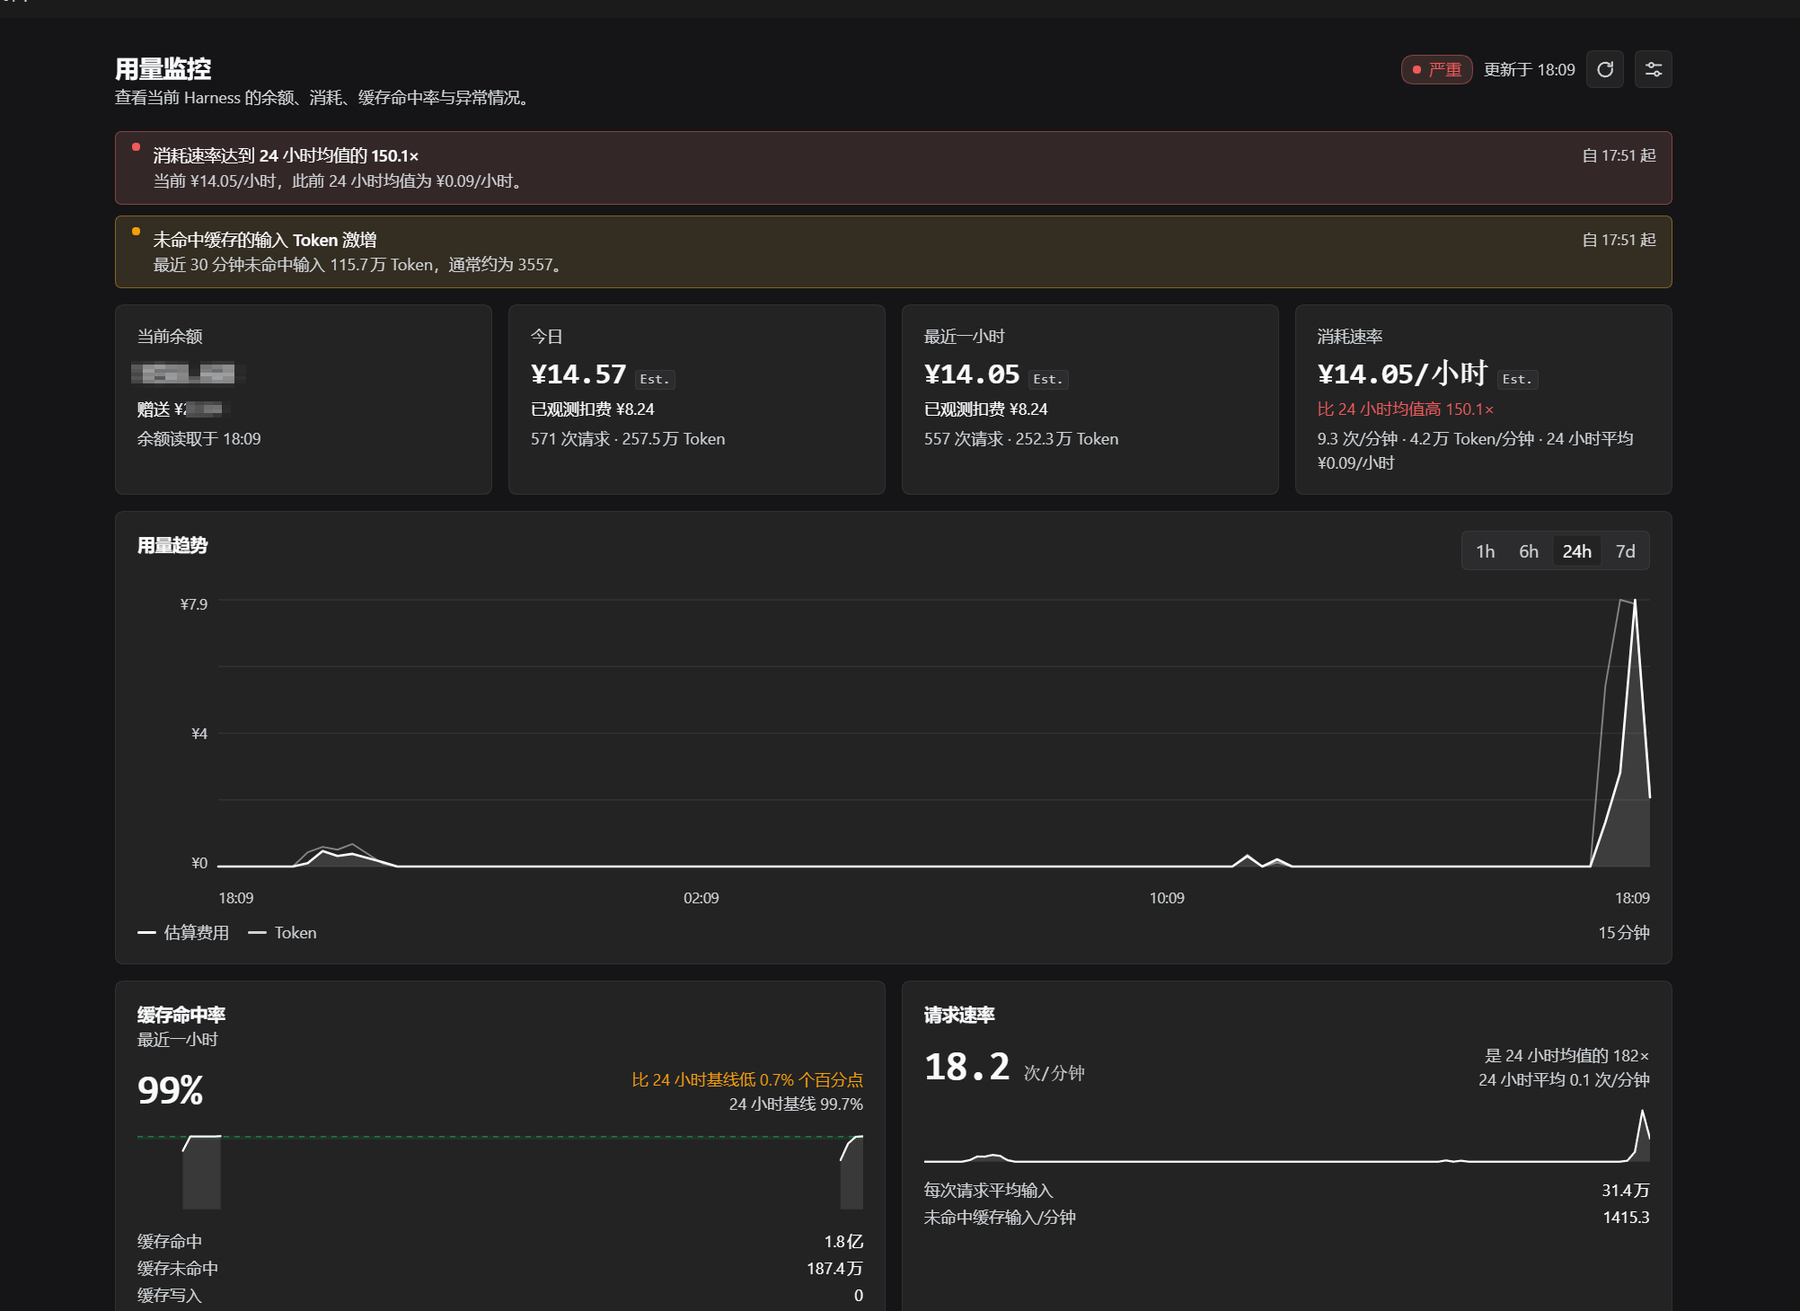
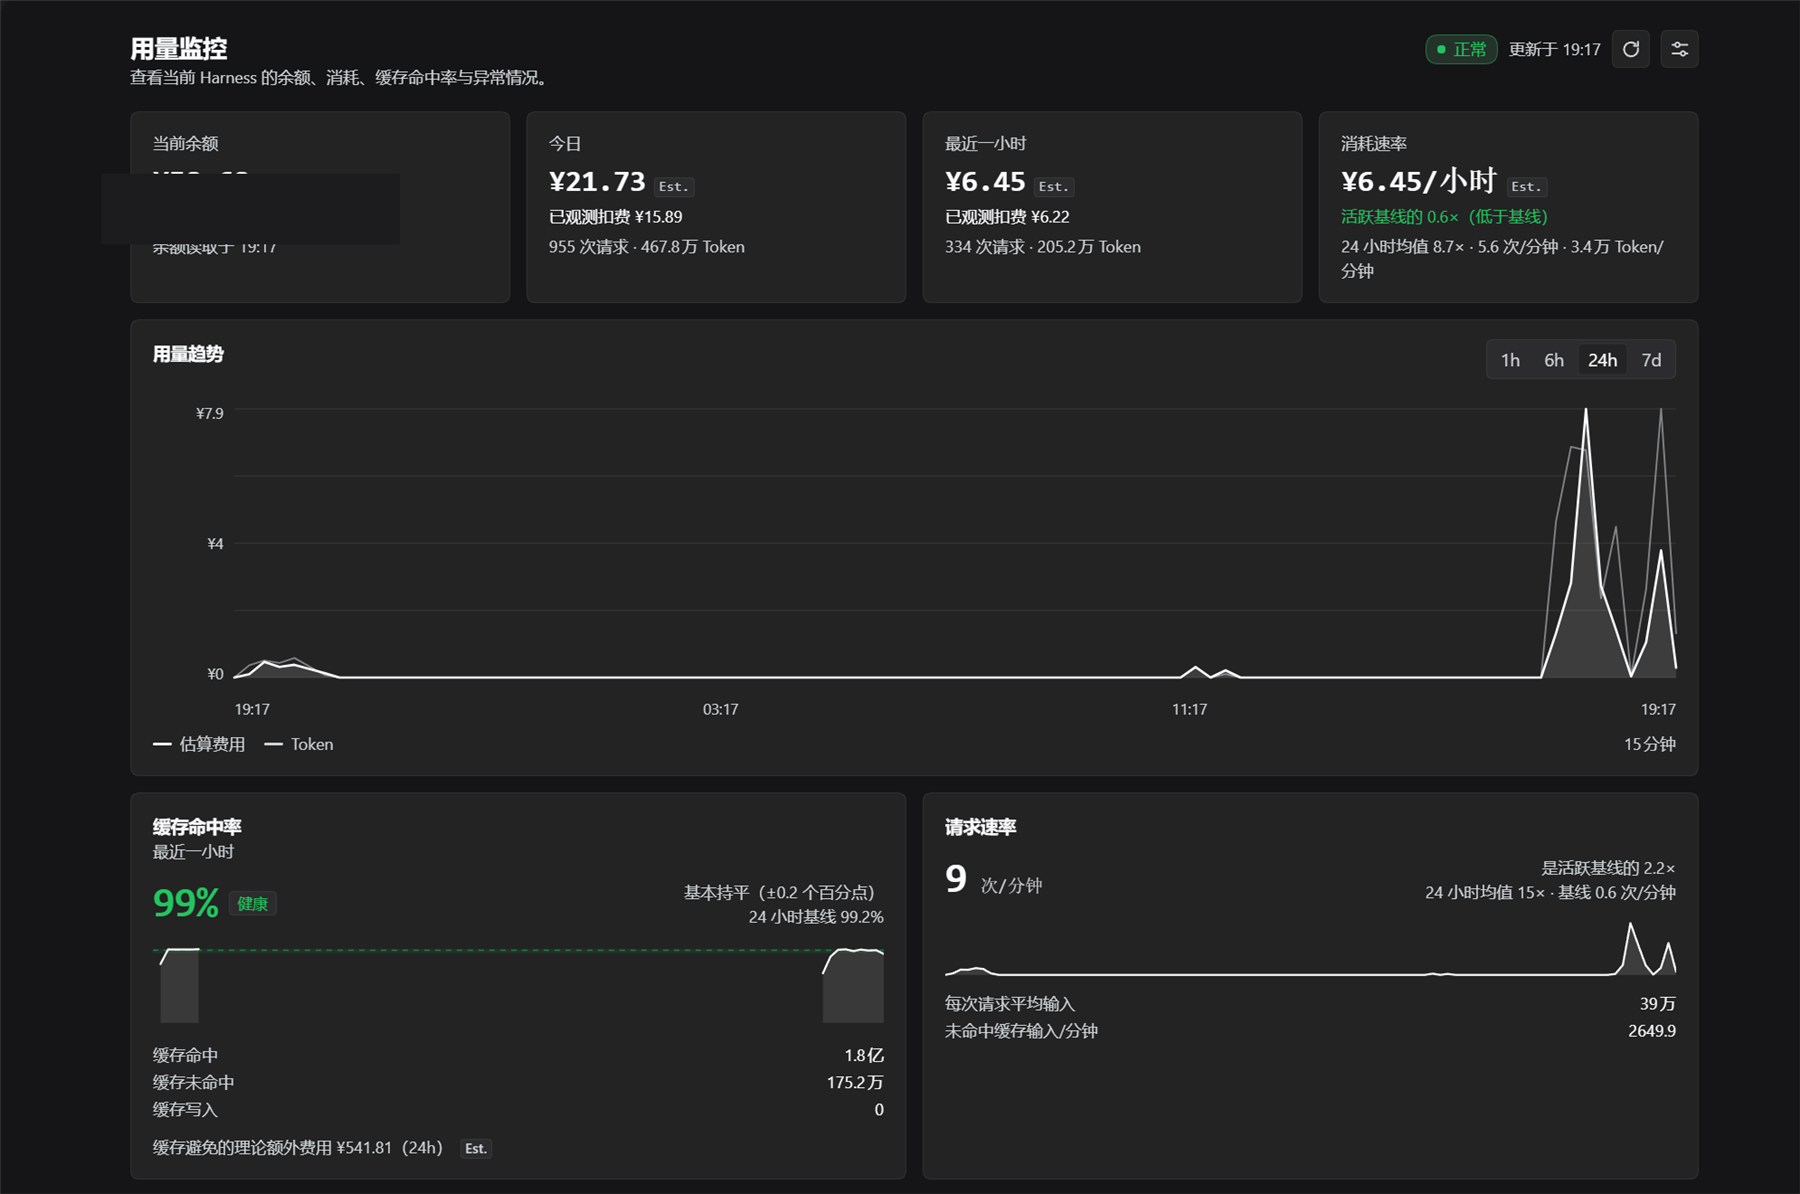
docs: refresh v0.1.1 screenshots with redacted wallet values

diff --git a/README.md b/README.md
@@ -19,12 +19,12 @@ English | [简体中文](README.zh.md)
 
 ![Usage Monitor dashboard — dark theme, Simplified Chinese UI](docs/screenshots/dashboard.png)
 
-![Cache and request cards plus the anomaly timeline from the same dashboard](docs/screenshots/cache-anomaly.png)
+![Why is usage high? Workload evidence vs efficiency evidence, and the evidence-only anomaly timeline](docs/screenshots/why-usage-high.png)
 
 Both images are real captures from a local DeepSeek Harness run with the plugin installed (dark
 theme, Chinese UI; the UI is fully localized in English and Chinese). Wallet amounts are redacted;
-no mock or demo data is shown. The second image stacks two regions of the same dashboard:
-cache/request cards and the anomaly timeline.
+no mock or demo data is shown. The second image stacks two regions of the same dashboard: the
+workload-vs-efficiency assessment and the evidence-only anomaly timeline plus forecast.
 
 ---
 
@@ -446,7 +446,7 @@ reload. Delete `$DSH_HOME/usage-monitor/` to reset state while testing.
 
 **Screenshots:** only real captures from a local Harness run are committed — never mockups. Run
 the plugin, open the dashboard, capture the window, redact wallet amounts/session titles/paths, and
-save as `docs/screenshots/dashboard.png` and `docs/screenshots/cache-anomaly.png`.
+save as `docs/screenshots/dashboard.png` and `docs/screenshots/why-usage-high.png`.
 
 More detail: [`docs/ARCHITECTURE.md`](docs/ARCHITECTURE.md),
 [`docs/DATA-SOURCES.md`](docs/DATA-SOURCES.md), [`docs/API.md`](docs/API.md),

diff --git a/README.zh.md b/README.zh.md
@@ -18,10 +18,11 @@
 
 ![用量监控面板——深色主题、中文界面](docs/screenshots/dashboard.png)
 
-![同一仪表盘的缓存/请求卡片与异常时间线](docs/screenshots/cache-anomaly.png)
+![为什么用量偏高：工作负载证据与效率证据，以及只保留证据的异常时间线](docs/screenshots/why-usage-high.png)
 
 两张图均为安装了本插件后的本地 DeepSeek Harness 真实运行截图（深色主题、中文界面；插件同时支持英文与
-中文）。钱包金额已打码，未使用任何模拟数据。第二张图由同一仪表盘的两个区域拼接：缓存/请求卡片与异常时间线。
+中文）。钱包金额已打码，未使用任何模拟数据。第二张图由同一仪表盘的两个区域拼接：工作负载/效率评估，以及
+只保留证据的异常时间线与预测。
 
 ---
 
@@ -402,7 +403,7 @@ CI 运行前三条命令（其中审计通过 `npm run audit` 调用）；`verif
 
 **截图：** 仓库只接受真实本地 Harness 运行的截图 —— 绝不使用效果图。运行插件、打开面板、截取窗口，
 对钱包金额/会话标题/路径脱敏，分别保存为 `docs/screenshots/dashboard.png` 与
-`docs/screenshots/cache-anomaly.png`。
+`docs/screenshots/why-usage-high.png`。
 
 更多细节：[`docs/ARCHITECTURE.md`](docs/ARCHITECTURE.md)、[`docs/DATA-SOURCES.md`](docs/DATA-SOURCES.md)、
 [`docs/API.md`](docs/API.md)、[`docs/UI.md`](docs/UI.md)、[`CONTRIBUTING.md`](CONTRIBUTING.md)。
